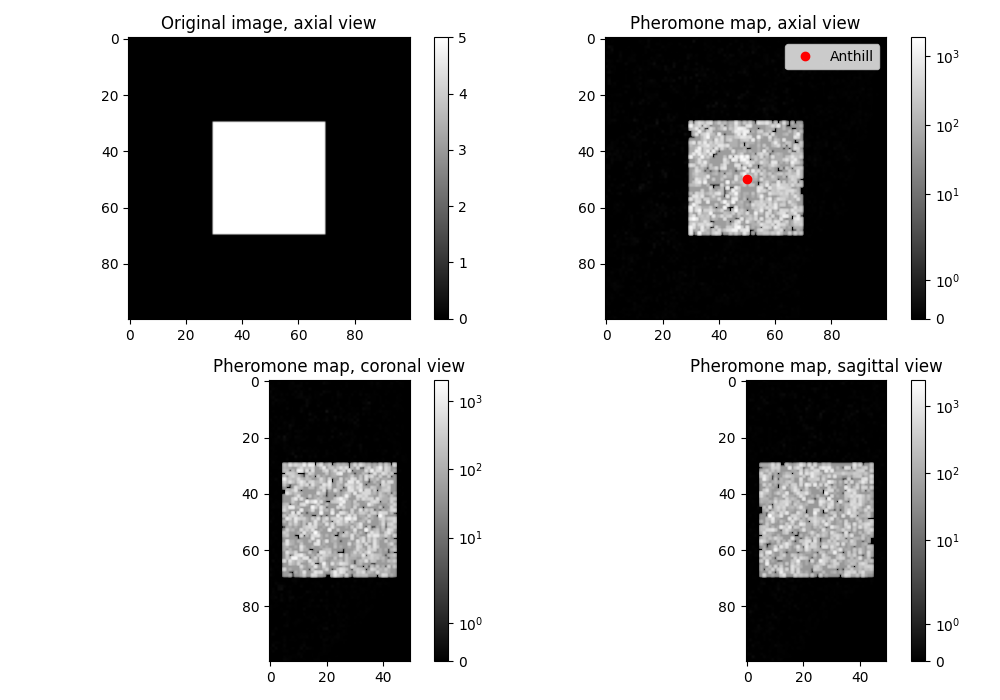
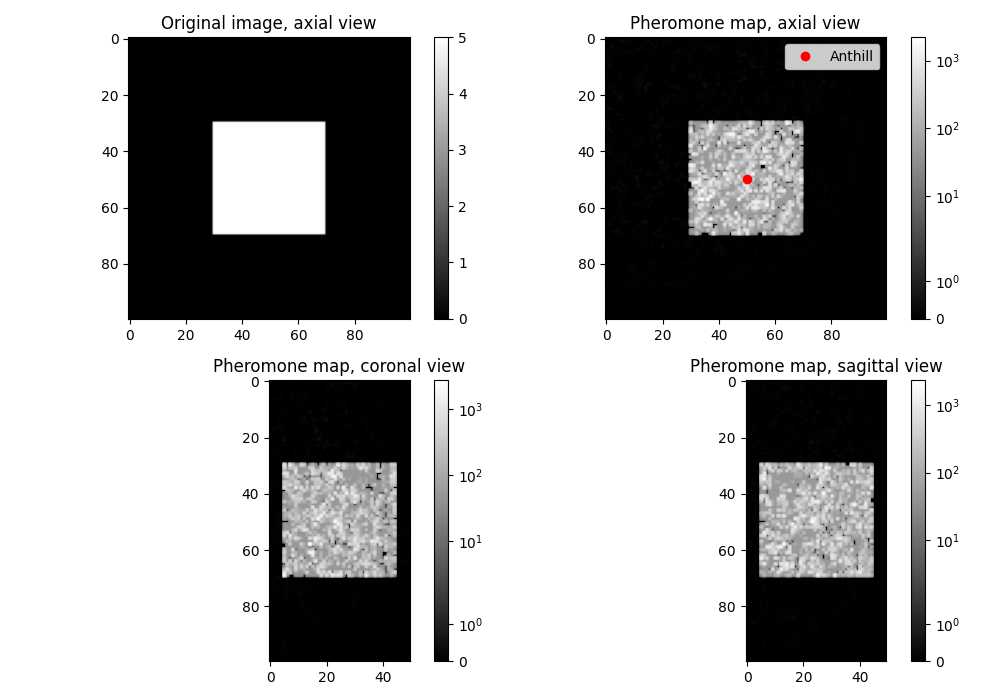
updated assets

diff --git a/src/CAM_functions.py b/src/CAM_functions.py
@@ -101,7 +101,7 @@ def update_pheromone_map(ant_worker):
     arr = np.frombuffer(np_x, dtype=np.float32).reshape(np_x_shape)
     pheromone = ant_worker.pheromone_release(ant_worker.voxel_coordinates)
     [x, y, z] = ant_worker.voxel_coordinates
-    arr[x, y, z, 0] += pheromone
+    arr[x, y, z, 0] += pheromone + ant_worker.eta
     arr[x, y, z, 1] = 1
     return pheromone - ant_worker.eta
 
@@ -283,14 +283,15 @@ def statistics(ants_number, args_parser, mean_array, image_matrix, pheromone_mat
         expl_level[index] = len(temp_visited_dict) / image_voxels.shape[0]
         cont_level[index] = expl_level[index] - sensitivity[index]
 
-    print(sensitivity[:5])
-    print(cont_level[:5])
-    print(pheromone_threshold[:5])
+    index = 2
+    print(sensitivity[:10])
+    print(cont_level[:10])
+    print(pheromone_threshold[:10])
 
-    logging.info(f"Pheromone threshold: {pheromone_threshold[1]:.1f}\n")
-    logging.info(f"Sensitivity: {100 * sensitivity[1]:.1f} %\n")
-    logging.info(f"Expl. level: {100 * expl_level[1]:.1f} %\n")
-    logging.info(f"Cont. level: {100 * cont_level[1]:.1f} %\n")
+    logging.info(f"Pheromone threshold: {pheromone_threshold[index]:.1f}\n")
+    logging.info(f"Sensitivity: {100 * sensitivity[index]:.1f} %\n")
+    logging.info(f"Expl. level: {100 * expl_level[index]:.1f} %\n")
+    logging.info(f"Cont. level: {100 * cont_level[index]:.1f} %\n")
 
     _, ax = plt.subplots(2, 2, figsize=(10, 7))
     ax[0][0].plot(ants_number)

diff --git a/src/main.py b/src/main.py
@@ -164,8 +164,8 @@ if __name__ == "__main__":
     np.copyto(pheromone_map, pheromone_map_init)
 
     n_iteration = 0
-    energy_death = 1.
-    energy_reproduction = 1.3
+    energy_death = 0.3
+    energy_reproduction = 1.25
     ant_number = []
     pheromone_mean_sum = 0
     pheromone_mean_array = []

diff --git a/src/environment_constructor.py b/src/environment_constructor.py
@@ -219,4 +219,3 @@ class ImageData:
             - 1024.0
         )
         return CT_array, aspect_ratio
-
